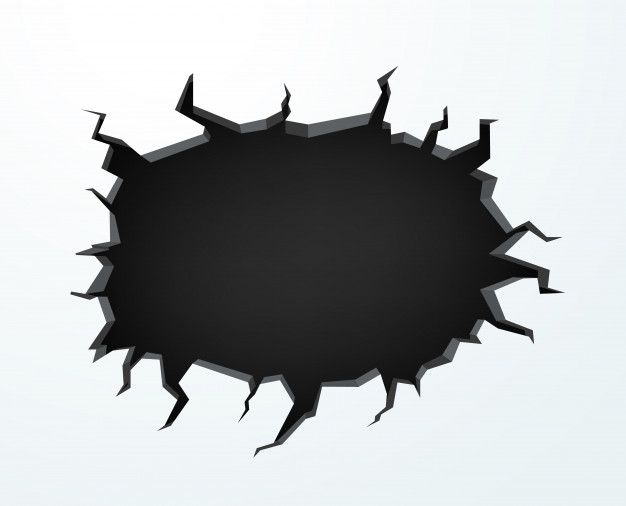
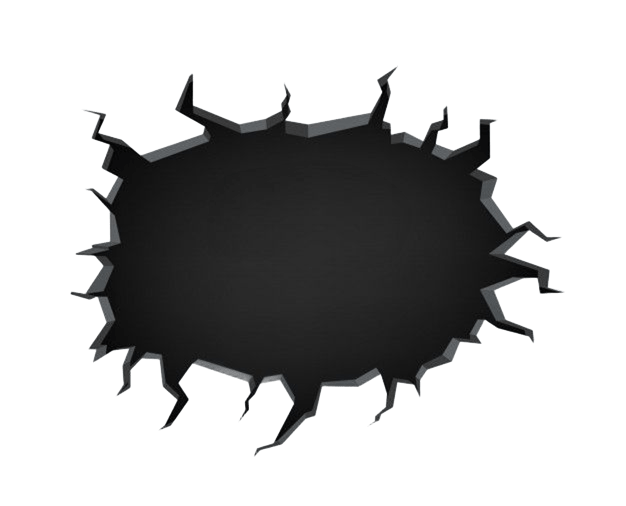
atualizei as imagens

diff --git a/main.py b/main.py
@@ -4,8 +4,8 @@ import random
 def main():
     # Tela
     pygame.init()
-    largura = 200
-    altura = 250
+    largura = 500
+    altura = 600
     tela = pygame.display.set_mode((largura, altura))
     pygame.display.set_caption('Caça ao tesouro')
     estado = 'menu'
@@ -13,24 +13,30 @@ def main():
     som_tesouro = pygame.mixer.Sound("pygame_tesouro.wav")
     som_buraco = pygame.mixer.Sound("pygame_buraco.wav")
     som_contagem = pygame.mixer.Sound("pygame_contagem.wav")
-    img_tesouro = pygame.transform.scale(pygame.image.load("tesouro.png"), (49, 49))
-    img_buraco = pygame.transform.scale(pygame.image.load("buraco.png"), (49, 49))
-    img_menu = pygame.transform.scale(pygame.image.load('menu.png'),(200,250))
+
+    img_tesouro = pygame.transform.scale(pygame.image.load("tesouro.png"), (46, 46))
+    img_buraco = pygame.transform.scale(pygame.image.load("buraco1.png"), (46, 46))
+    img_menu = pygame.transform.scale(pygame.image.load('menu.png'),(500,650))
+    img_vitoria = pygame.transform.scale(pygame.image.load('vitoria.png'),(500,600))
+    img_empate = pygame.transform.scale(pygame.image.load('empate.png'),(500,600))
+
     cores = {
         'branca': (255, 255, 255),
         'azul': (0, 0, 255),
         'vermelho': (255, 0, 0),
         'preto': (0, 0, 0),
-        'verde': (0, 255, 0),
+        'marrom': (101,67,33),
+        'areia': (194,178,128),
     }
 
-    fonte = pygame.font.Font(None, 20)
+    fonte1 = pygame.font.Font(None, 40)
+    fonte2 = pygame.font.Font(None, 30)
     lado_quadrado = 50
-    num_linhas = 4
-    tamanho_grade = lado_quadrado * num_linhas  # 200
+    num_linhas = 11
+    tamanho_grade = lado_quadrado * (num_linhas - 1)  # 200
 
-    linhas = 4
-    colunas = 4
+    linhas = 10
+    colunas = 10
 
     # Looping do jogo
     running = True
@@ -38,21 +44,25 @@ def main():
         for evento in pygame.event.get():
             if evento.type == pygame.QUIT:
                 running = False
-
+            
             if evento.type == pygame.KEYDOWN:
+                if evento.key == pygame.K_ESCAPE and estado == 'menu':
+                    running = False
+                    print('fechou')
+
                 if evento.key == pygame.K_RETURN and estado == 'menu':
                     pontuacao = [0,0]
 
-                    tela.fill(cores['branca'])
+                    tela.fill(cores['areia'])
 
                     pos_y = 0
                     for i in range(num_linhas):
-                        pygame.draw.line(tela, cores['preto'], (0, pos_y), (tamanho_grade, pos_y),1)
+                        pygame.draw.line(tela, cores['marrom'], (0, pos_y), (tamanho_grade, pos_y),3)
                         pos_y += lado_quadrado
 
                     pos_x = 0
                     for j in range(num_linhas):
-                        pygame.draw.line(tela, cores['preto'], (pos_x, 0), (pos_x, tamanho_grade), 1)
+                        pygame.draw.line(tela, cores['marrom'], (pos_x, 0), (pos_x, tamanho_grade), 3)
                         pos_x += lado_quadrado
 
                     tabuleiro = []
@@ -62,8 +72,8 @@ def main():
                             linha.append(0)
                         tabuleiro.append(linha)
 
-                    tesouros = 6
-                    buracos = 3
+                    tesouros = 12
+                    buracos = 8
                     contador = 0
                     while contador < tesouros:
                         linha = random.randint(0, linhas - 1)
@@ -82,7 +92,7 @@ def main():
 
                     for linha_tab in tabuleiro:
                         print(linha_tab)
-
+                    
                     revelado = []
                     for i in range(linhas):
                         revelado.append([0] * colunas)
@@ -103,6 +113,19 @@ def main():
                                 if j + 1 < colunas:
                                     if tabuleiro[i][j + 1] == -1:
                                         contar_tesouros += 1
+                                if i - 1 >= 0 and j - 1 >= 0:
+                                    if tabuleiro[i - 1][j - 1] == -1:
+                                        contar_tesouros += 1
+                                if i - 1 >= 0 and j + 1 < colunas:
+                                    if tabuleiro[i - 1][j + 1] == -1:
+                                        contar_tesouros += 1
+                                if i + 1 < linhas and j - 1 >= 0:
+                                    if tabuleiro [i + 1][j - 1] == -1:
+                                        contar_tesouros += 1
+                                if i + 1 < linhas and j + 1 < colunas:
+                                    if tabuleiro [i + 1][j + 1] == -1:
+                                        contar_tesouros += 1
+
                                 tabuleiro[i][j] = contar_tesouros
 
                     vez = random.randint(1,2)
@@ -122,7 +145,7 @@ def main():
                 x, y = evento.pos
                 coluna = x // 50
                 linha = y // 50
-                if y >= 200:
+                if y >= 500:
                     continue
                 if revelado[linha][coluna] != 0:
                     continue
@@ -164,51 +187,55 @@ def main():
 
         # RENDERIZAÇÃO
         if estado == 'vitoria':
-            tela.fill(cores['branca'])
             if vencedor == 'Jogador 1':
-                texto_vitoria1 = fonte.render('O vencedor da partida foi:', False, cores['preto'])
-                texto_vitoria2 = fonte.render(f'{vencedor}', False, cores['azul'])
-                tela.blit(texto_vitoria1, (20, 30)) 
-                tela.blit(texto_vitoria2, (65, 50))
-
+                texto_vitoria1 = fonte1.render('O vencedor da partida foi:', False, cores['branca'])
+                texto_vitoria2 = fonte1.render(f'{vencedor}', False, cores['azul'])
+                tela.blit(img_vitoria,(0,0))
+                tela.blit(texto_vitoria1, (60, 20)) 
+                tela.blit(texto_vitoria2, (170, 150))
+                
             elif vencedor == 'Jogador 2':
-                texto_vitoria1 = fonte.render('O vencedor da partida foi:', False, cores['preto'])
-                texto_vitoria2 = fonte.render(f'{vencedor}', False, cores['vermelho'])
-                tela.blit(texto_vitoria1, (20, 30)) 
-                tela.blit(texto_vitoria2, (65, 50))
-
+                texto_vitoria1 = fonte1.render('O vencedor da partida foi:', False, cores['branca'])
+                texto_vitoria2 = fonte1.render(f'{vencedor}', False, cores['vermelho'])
+                tela.blit(img_vitoria,(0,0))
+                tela.blit(texto_vitoria1, (60, 20)) 
+                tela.blit(texto_vitoria2, (170, 150))
+                
             elif vencedor == 'Empate':
-                texto_vitoria1 = fonte.render('Houve um EMPATE', False, cores['preto'])
-                tela.blit(texto_vitoria1, (42, 50))
-
-            texto_retorno = fonte.render('ENTER para retornar ao menu', False, cores['preto'])
-            
-            tela.blit(texto_retorno, (5, 150))
-            texto_fecha = fonte.render('Aperte ESC para sair do jogo', False, cores['preto'])
-            tela.blit(texto_fecha, (10, 210))
+                texto_vitoria1 = fonte1.render('Houve um EMPATE', False, cores['branca'])
+                tela.blit(img_empate,(0,0))
+                tela.blit(texto_vitoria1, (42, 20))
+                
+            texto_retorno = fonte1.render('ENTER para retornar ao menu', False, cores['branca'])
+            tela.blit(texto_retorno, (60, 445))
+            texto_fecha = fonte1.render('Aperte ESC para sair do jogo', False, cores['branca'])
+            tela.blit(texto_fecha, (60, 485))
 
         if estado == 'menu':
             tela.fill(cores['preto'])
-            texto_menu = fonte.render('Aperte Enter para jogar', False, cores['branca'])
+            texto_menu1 = fonte1.render('Aperte ENTER para jogar', False, cores['branca'])
+            texto_menu2 = fonte1.render('Aperte ESC para sair', False, cores['branca'])
             tela.blit(img_menu, (0,0))
-            tela.blit(texto_menu,(20,170))
+            tela.blit(texto_menu1,(70,325))
+            tela.blit(texto_menu2,(95,375))
+
         if estado == 'jogando':
-            pygame.draw.rect(tela, cores['branca'], (0, 200, 200, 50))
-            texto_jogador_1 = fonte.render(f'Jogador 1 - Pontuação:{pontuacao[0]}', False, cores['azul'])
-            texto_jogador_2 = fonte.render(f'Jogador 2 - Pontuação:{pontuacao[1]}', False, cores['vermelho'])
-            texto_vez = fonte.render(f'Vez:{vez}', False, cores['preto'])
-            tela.blit(texto_vez, (20, 201))
-            tela.blit(texto_jogador_1, (20, 210))
-            tela.blit(texto_jogador_2, (20, 230))
+            pygame.draw.rect(tela, cores['areia'], (0, 505, largura, altura - 505))
+            texto_jogador_1 = fonte2.render(f'Jogador 1 - Pontuação:{pontuacao[0]}', False, cores['azul'])
+            texto_jogador_2 = fonte2.render(f'Jogador 2 - Pontuação:{pontuacao[1]}', False, cores['vermelho'])
+            texto_vez = fonte2.render(f'Vez:{vez}', False, cores['preto'])
+            tela.blit(texto_vez, (20, 510))
+            tela.blit(texto_jogador_1, (20, 540))
+            tela.blit(texto_jogador_2, (20, 570))
 
             for i in range(linhas):
                 for j in range(colunas):
                     if revelado[i][j] == 1:
-                        tela.blit(img_tesouro, (j * 50 + 1, i * 50 + 1))
+                        tela.blit(img_tesouro, (j * 50 + 2, i * 50 + 2))
                     elif revelado[i][j] == 2:
-                        tela.blit(img_buraco, (j * 50 + 1, i * 50 + 1))
+                        tela.blit(img_buraco, (j * 50 + 2, i * 50 + 2))
                     elif revelado[i][j] == 3:
-                        texto_numeros = fonte.render(str(tabuleiro[i][j]), True, cores['preto'])
+                        texto_numeros = fonte1.render(str(tabuleiro[i][j]), True, cores['preto'])
                         tela.blit(texto_numeros, (j * 50 + 20, i * 50 + 20))
 
             acabou = True
@@ -216,7 +243,7 @@ def main():
                 for j in range(colunas):
                     if revelado[i][j] == 0:
                         acabou = False
-
+                    
             if acabou:
                 if pontuacao[0] > pontuacao[1]:
                     vencedor = 'Jogador 1'
